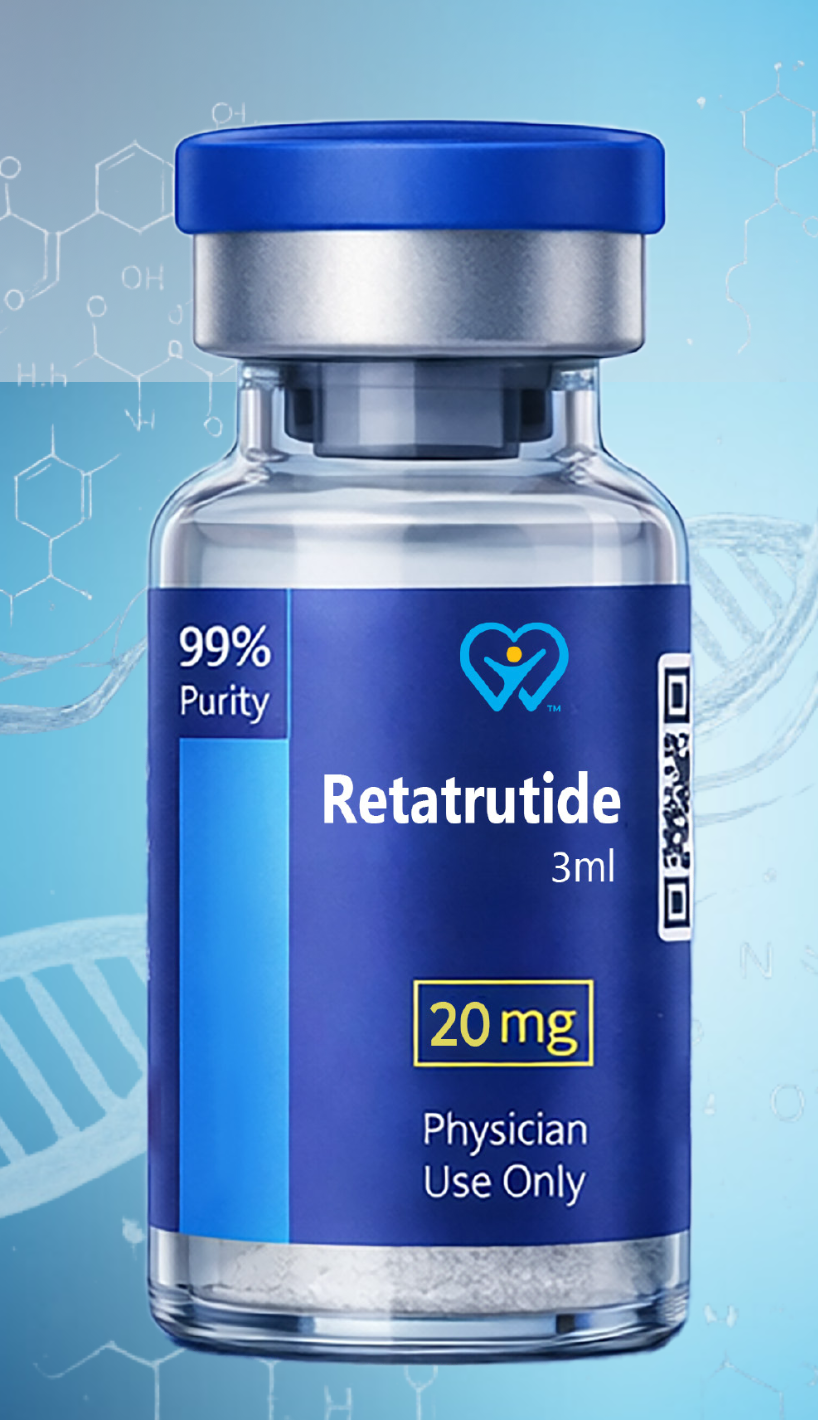
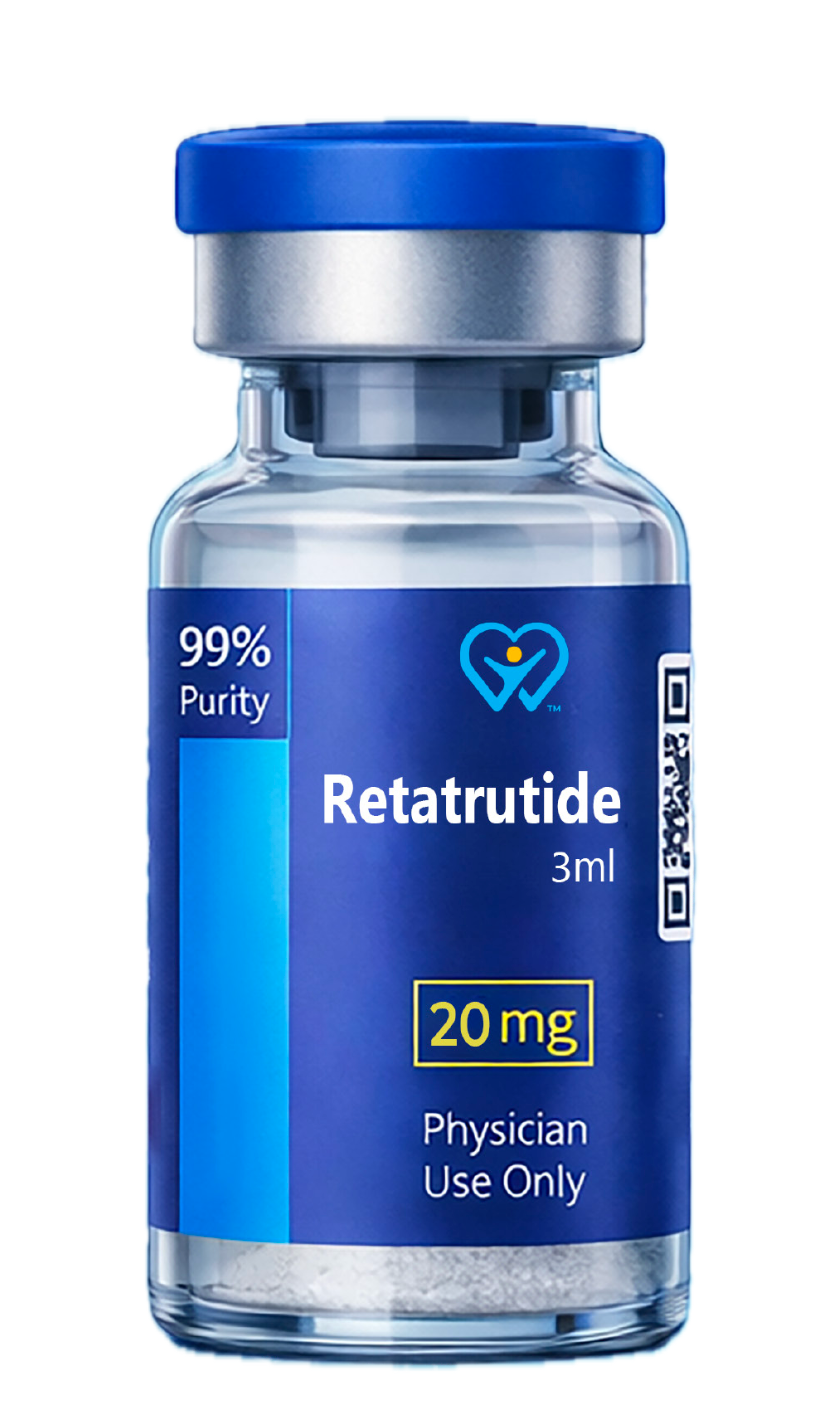
perfeccionar imagenes

diff --git a/app/page.tsx b/app/page.tsx
@@ -13,7 +13,7 @@ type Producto = {
   imagen: string;
 };
 
-// INFORMACIÓN CLÍNICA LIMPIA
+// INFORMACIÓN CLÍNICA BASADA EN RXWELLHEALTH
 const PRODUCTOS: Producto[] = [
   { 
     id: 1, 
@@ -81,7 +81,7 @@ const PRODUCTOS: Producto[] = [
     precio: 150, 
     descBreve: "Sinergia de análogo GHRH y optimizador de GHRP.",
     mecanismo: "El Tesamorelin actúa como análogo de GHRH para estimular la liberación de GH, mientras el Ipamorelin optimiza el pulso.",
-    research: "Mezcla equilibrada que ofrece una excelente sinergia para la pérdida de grasa, mejora de la composición corporal y recuperación celular.",
+    research: "Mezcla equilibrada que ofrece una excelente sinergia para la pérdida de grasa, mejora de la composition corporal y recuperación celular.",
     dosis: "Inyectar 30 minutos antes de dormir o al despertar en ayunas, 1 o 2 veces al día. Ciclos de 10 a 16 semanas.",
     imagen: "/tesamorelin.png"
   },
@@ -181,22 +181,22 @@ export default function Home() {
               <div className="h-[1px] bg-[#D4AF37]/50 flex-1"></div>
             </div>
 
-            {/* GRILLA DE PRODUCTOS (Ahora en 1 sola columna para que el diseño horizontal respire bien) */}
+            {/* GRILLA DE PRODUCTOS */}
             <div className="grid grid-cols-1 gap-8 max-w-4xl mx-auto">
               {PRODUCTOS.map((prod) => (
                 <div key={prod.id} className="bg-[#0B1B3D] p-6 rounded-2xl shadow-xl border border-[#D4AF37]/30 hover:border-[#D4AF37] hover:shadow-[0_10px_30px_rgba(212,175,55,0.2)] transition-all duration-300 flex flex-col md:flex-row gap-8 group">
                   
-                  {/* LADO IZQUIERDO: IMAGEN MÁS CHICA Y DELICADA */}
-                  <div className="w-full md:w-36 h-36 flex-shrink-0 flex items-center justify-center bg-white rounded-xl border-2 border-[#D4AF37]/50 relative overflow-hidden self-start md:mt-2">
+                  {/* LADO IZQUIERDO: IMAGEN COMPACTA FIJA (128x128 px) */}
+                  <div className="w-32 h-32 flex-shrink-0 flex items-center justify-center bg-white rounded-xl border-2 border-[#D4AF37]/50 relative overflow-hidden mx-auto md:mx-0 md:mt-2">
                      <img 
                         src={prod.imagen} 
                         alt={prod.nombre} 
-                        className="h-24 w-auto object-contain drop-shadow-md group-hover:scale-110 transition-transform duration-500 z-10"
+                        className="w-full h-full object-contain p-3 drop-shadow-md group-hover:scale-110 transition-transform duration-500 z-10"
                         onError={(e) => {
                           e.currentTarget.src = "https://placehold.co/400x400/FFFFFF/0B1B3D?text=Foto";
                         }}
                      />
-                     <div className="absolute inset-0 bg-[#D4AF37] opacity-0 group-hover:opacity-10 transition-opacity duration-500"></div>
+                     <div className="absolute inset-0 bg-[#D4AF37] opacity-0 group-hover:opacity-10 transition-opacity duration-500 pointer-events-none"></div>
                   </div>
 
                   {/* LADO DERECHO: TEXTOS GRANDES Y BOTONES */}
@@ -210,7 +210,7 @@ export default function Home() {
                     
                     <p className="text-lg text-slate-300 mb-6 font-medium leading-relaxed">{prod.descBreve}</p>
                     
-                    {/* ACORDEÓN CLÍNICO (Diseño Dark Mode) */}
+                    {/* ACORDEÓN CLÍNICO */}
                     <details className="group/details cursor-pointer outline-none mb-6">
                       <summary className="text-sm font-bold text-white mb-2 uppercase tracking-wider hover:text-[#D4AF37] transition-colors list-none flex items-center gap-2 bg-white/5 p-3 rounded-lg border border-white/10">
                         <span>Ver Ficha Técnica Detallada 🔬</span>
